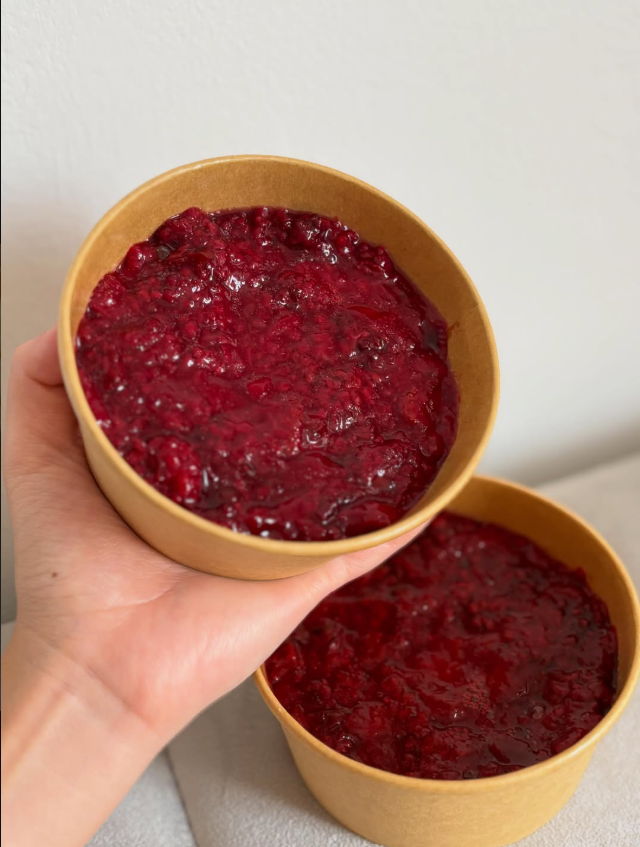
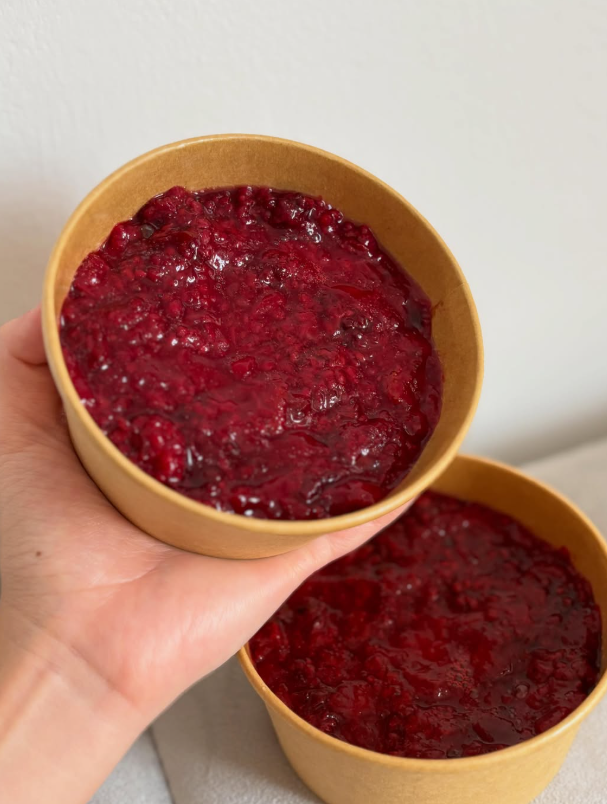
Se realiza la pagina de productos con su respectivo archivo css

diff --git a/src/app/(shop)/productos/page.tsx b/src/app/(shop)/productos/page.tsx
@@ -1,1 +1,121 @@
 // LISTA DE PRODUCTOS
+
+import Link from "next/link";
+import "./productos.css";
+import ProductoCard from "@/components/productos/productoCard";
+
+const productos = [
+  {
+    id: 1,
+    nombre: "Torta Red Velvet",
+    precio: 25000,
+    imagen: "/redvelvet.png",
+  },
+  {
+    id: 2,
+    nombre: "CheeseCake",
+    precio: 20000,
+    imagen: "/cheesecakes.png",
+  },
+  {
+    id: 3,
+    nombre: "Brookie",
+    precio: 20000,
+    imagen: "/brookie.png",
+  },
+
+  {
+    id: 4,
+    nombre: "Brownie con helado",
+    precio: 20000,
+    imagen: "/brookie.png",
+  },
+
+  {
+    id: 5,
+    nombre: "Cheesecake de Maracuya",
+    precio: 20000,
+    imagen: "/cheesecakes.png",
+  },
+
+  {
+    id: 6,
+    nombre: "Brownie con helado",
+    precio: 20000,
+    imagen: "/brookie.png",
+  },
+
+  {
+    id: 7,
+    nombre: "Brownie con helado",
+    precio: 20000,
+    imagen: "/redvelvet.png",
+  },
+
+  {
+    id: 8,
+    nombre: "Brownie con helado",
+    precio: 20000,
+    imagen: "/brookie.png",
+  },
+];
+
+export default function ProductosPage() {
+  return (
+    <div className="productos-page">
+      <div className="productos-banner">
+        <div className="productos-banner-overlay">
+          <div className="productos-banner-container">
+            <h1 className="productos-banner-titulo">
+              Todos nuestros productos
+            </h1>
+
+            <p className="productos-banner-texto">
+              ¿No te decides? Conoce todos nuestros productos e inspírate a
+              probarlos todos.
+            </p>
+
+            <p className="productos-banner-texto">
+              Puedes ordenar online y lo llevaremos hasta tu casa.
+            </p>
+
+            <p className="productos-banner-texto">
+              ¡DESCUBRE LA MAGIA DE CHEESEHAUS!
+            </p>
+          </div>
+        </div>
+      </div>
+
+      {/* Breadcrumb --> indica la pagina en la que estamos */}
+      <div className="productos-breadcrumb">
+        <Link href="/">Inicio</Link>
+        <span>{" > "}</span>
+        <Link href="/productos">Productos</Link>
+      </div>
+
+      {/* barra de ordenamiento */}
+      <div className="productos-toolbar">
+        <select className="productos-orden">
+          <option value="Relevancia">Ordenar por: Relevancia</option>
+          <option value="Precio-asc">Precio: Menor a Mayor</option>
+          <option value="Precio-desc">Precio: Mayor a Menor</option>
+          <option value="Nombre">Nombre: A-Z</option>
+        </select>
+      </div>
+
+      <div className="productos-container">
+        <div className="productos-grid">
+          {productos.map((producto) => (
+            <ProductoCard
+              key={producto.id}
+              id={producto.id}
+              nombre={producto.nombre}
+              precio={producto.precio}
+              imagen={producto.imagen}
+            />
+          ))}
+        </div>
+      </div>
+    </div>
+  );
+}

diff --git a/src/app/(shop)/productos/productos.css b/src/app/(shop)/productos/productos.css
@@ -1,0 +1,107 @@
+.productos-page {
+  background-color: var(--color-cream);
+  min-height: calc(100vh - 98px);
+}
+
+.productos-banner {
+  width: 100%;
+  height: 575px;
+  background-image: url("/imagen_fondo.png");
+  background-size: cover;
+  background-position: center;
+  background-repeat: no-repeat;
+  position: relative;
+}
+
+.productos-banner-overlay {
+  position: absolute;
+  inset: 0;
+  background-color: rgba(0, 0, 0, 0.25);
+  display: flex;
+  align-items: center;
+  justify-content: center;
+}
+
+.productos-banner-container {
+  text-align: center;
+  max-width: 600px;
+  padding: 2rem;
+}
+
+.productos-banner-titulo {
+  font-family: var(--font-display);
+  font-size: 2rem;
+  text-transform: uppercase;
+  letter-spacing: 0.15rem;
+  font-weight: 400;
+  margin-top: -3rem;
+  margin-bottom: 2rem;
+}
+
+.productos-banner-texto {
+  font-family: var(--font-display);
+  font-size: 1.3rem;
+  font-weight: 400;
+  line-height: 1.5;
+  letter-spacing: 0.05rem;
+  margin-bottom: 1rem;
+}
+
+.productos-breadcrumb {
+  max-width: 1500px;
+  margin: 0 auto;
+  font-size: 0.9rem;
+  padding: 1rem 2rem;
+  display: flex;
+  gap: 0.5rem;
+}
+
+.productos-breadcrumb a {
+  text-decoration: none;
+  color: var(--color-navy);
+}
+
+.productos-toolbar {
+  max-width: 1500px;
+  margin: 0 auto;
+  padding: 0 2rem 2.5rem;
+}
+
+.productos-toolbar::after {
+  content: "";
+  position: absolute;
+  bottom: -4rem;
+  left: 50%;
+  transform: translateX(-50%);
+  width: 94.5%;
+  height: 1px;
+  background-color: #6f4e37;
+}
+
+.productos-orden {
+  border: none;
+  background-color: transparent;
+  border-bottom: 1.5px solid #a09080;
+  padding-bottom: 0.4rem;
+  width: 15%;
+  font-family: var(--font-display);
+  font-size: 1.05rem;
+  font-weight: 500;
+  letter-spacing: 0.05em;
+  color: var(--color-navy);
+  outline: none;
+  cursor: pointer;
+}
+
+.productos-container {
+  max-width: 1300px;
+  margin: 0 auto;
+  padding: 2rem;
+}
+
+.productos-grid {
+  display: grid;
+  grid-template-columns: repeat(4, 1fr);
+  gap: 3rem;
+  padding-bottom: 2rem;
+}

diff --git a/src/components/productos/productoCard.css b/src/components/productos/productoCard.css
@@ -2,7 +2,6 @@
   background-color: var(--color-cream);
   text-decoration: none;
   color: var(--color-text);
-
   transition: transform 0.4s ease;
 }
 
@@ -21,6 +20,7 @@
   height: 100%;
   object-fit: cover;
   transition: transform 0.5s ease;
+  border: 1.5px solid var(--color-text);
 }
 
 .producto-card:hover .producto-imagen {
@@ -34,7 +34,7 @@
   gap: 0.2rem;
   text-align: center;
   text-transform: uppercase;
-  border-top: 1.5px solid var(--color-text);
+  border: 1.5px solid var(--color-text);
 }
 
 .producto-nombre {

diff --git a/src/components/home/hero.css b/src/components/home/hero.css
@@ -11,7 +11,7 @@
 .hero-overlay {
   position: absolute;
   inset: 0;
-  background-color: rgba(0, 0, 0, 0.3);
+  background-color: rgba(0, 0, 0, 0.25);
   display: flex;
   justify-content: center;
   align-items: center;
